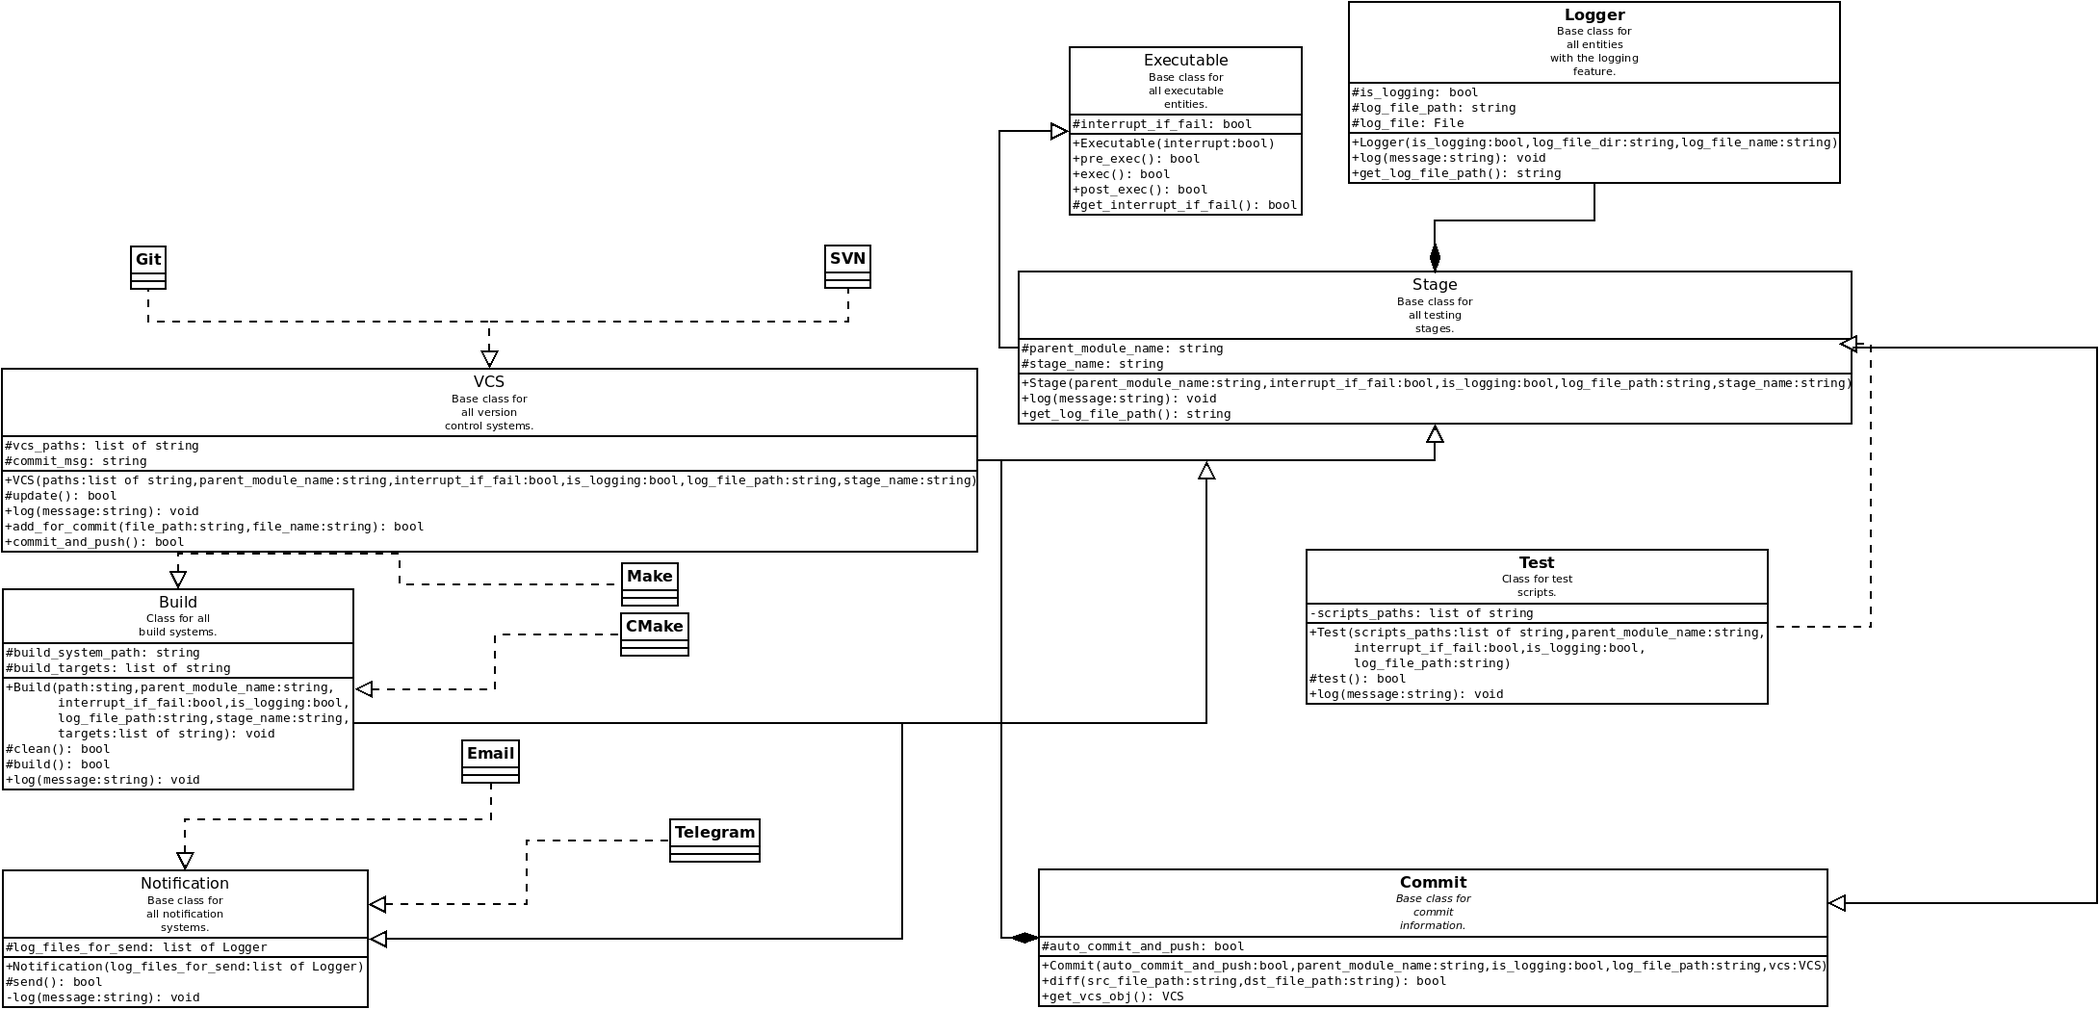
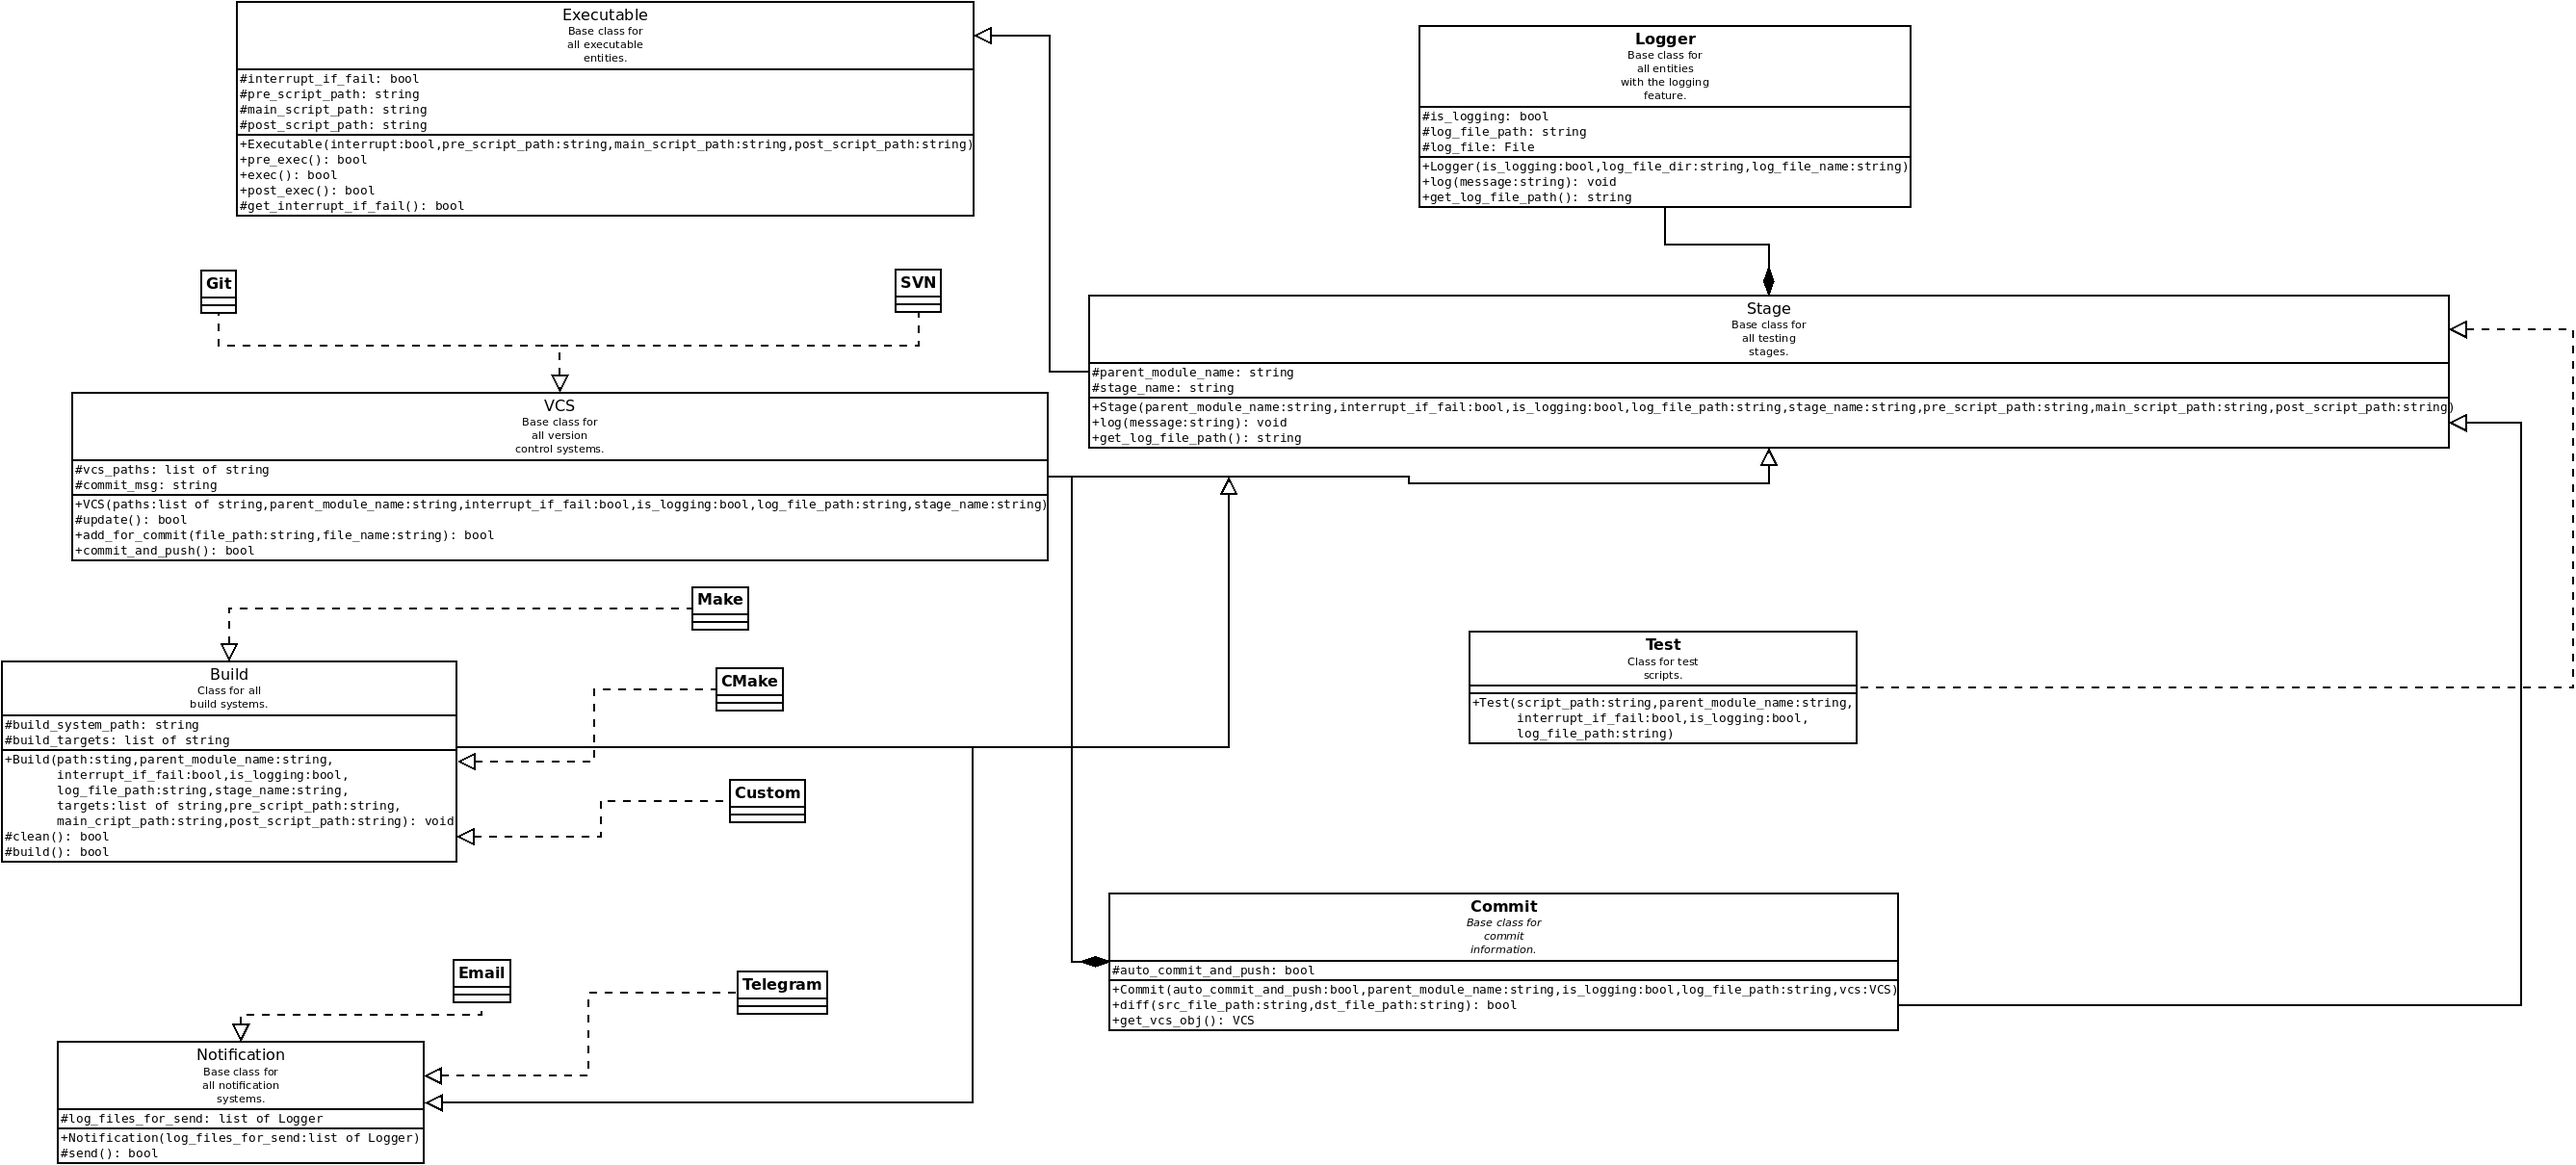
added Custom type for Build Stage.

diff --git a/src/simple_test_tool.py b/src/simple_test_tool.py
@@ -1,4 +1,5 @@
 from build.cmake import Cmake
+from build.custom import Custom
 from build.make import Make
 from module import Module
 from notification.mail import Email
@@ -69,10 +70,29 @@ def create_build_stage(stage_root, module_name):
     for target in stage_root.findall('Target'):
         targets_list.append(target.get('Name'))
 
+    pre_script_path = ""
+    main_script_path = ""
+    post_script_path = ""
+
+    pre_script = stage_root.find("PreScript")
+    if pre_script is not None:
+        pre_script_path = pre_script.get("Path")
+    main_script = stage_root.find("MainScript")
+    if main_script is not None:
+        main_script_path = main_script.get("Path")
+    post_script = stage_root.find("PostScript")
+    if post_script is not None:
+        post_script_path = post_script.get("Path")
+
     if stage_type == 'CMake':
-        return Cmake(stage_path, module_name, interrupt_on_fail, log_enable, log_path, 'CMake', targets_list)
+        return Cmake(stage_path, module_name, interrupt_on_fail, log_enable, log_path, 'CMake', targets_list,
+                     pre_script_path, main_script_path, post_script_path)
     elif stage_type == 'Make':
-        return Make(stage_path, module_name, interrupt_on_fail, log_enable, log_path, 'Make', targets_list)
+        return Make(stage_path, module_name, interrupt_on_fail, log_enable, log_path, 'Make', targets_list,
+                    pre_script_path, main_script_path, post_script_path)
+    elif stage_type == 'Custom':
+        return Custom(stage_path, module_name, interrupt_on_fail, log_enable, log_path, 'Custom', targets_list,
+                      pre_script_path, main_script_path, post_script_path)
     else:
         return None
 
@@ -98,9 +118,11 @@ def create_notification_stage(stage_root, loggers):
 
 
 def create_test_stage(stage_root, module_name):
-    paths = []
-    for path in stage_root.findall('Path'):
-        paths.append(path.get('Path'))
+    path = ""
+    path_tag = stage_root.find('MainScript')
+    if path_tag is not None:
+        path = path_tag.get('Path')
+
     log_enable = True if stage_root.get('LogEnable') == 'On' else False
     log_path = ''
 
@@ -109,7 +131,7 @@ def create_test_stage(stage_root, module_name):
 
     interrupt_on_fail = True if stage_root.get('InterruptOnFail') == 'On' else False
 
-    return Test(paths, module_name, interrupt_on_fail, log_enable, log_path)
+    return Test(path, module_name, interrupt_on_fail, log_enable, log_path)
 
 
 def read_outputs(outputs_root):

diff --git a/src/test.py b/src/test.py
@@ -8,12 +8,12 @@ class Test(Stage):
     Class that containing and operating tests.
     """
 
-    def __init__(self, script_paths, parent_module_name, interrupt_if_fail, is_logging, log_file_path):
+    def __init__(self, script_path, parent_module_name, interrupt_if_fail, is_logging, log_file_path):
         """
         Parameters
         ----------
-        script_paths : list
-            an absolute paths to tests
+        script_path : str
+            an absolute path to tests
         parent_module_name: str
             a parent module name
         interrupt_if_fail : bool
@@ -23,32 +23,25 @@ class Test(Stage):
         log_file_path : str
             an absolute path to directory for the log file
         """
-        Stage.__init__(self, parent_module_name, interrupt_if_fail, log_file_path, 'Test', is_logging)
-        self.__script_paths = script_paths.copy()
-        for path in self.__script_paths:
-            if not os.path.exists(path):
-                raise FileNotFoundError("Test: Path " + path + " doesn't exist!")
-
-    def _test(self):
-        for test_path in self.__script_paths:
-            test = subprocess.run(test_path, stdout=subprocess.PIPE, stderr=subprocess.PIPE)
-
-            self.log("Test " + test_path + "\nStdout:")
-            self.log(test.stdout.decode('utf-8'))
-            self.log("Stderr:")
-            self.log(test.stderr.decode('utf-8'))
-
-            self.log("Test evaluated with code :" + str(test.returncode))
-            if test.returncode != 0 and self._interrupt_if_fail:
-                return False
-
-        return True
+        Stage.__init__(self, parent_module_name, interrupt_if_fail, log_file_path, 'Test', is_logging, "",
+                       script_path, "")
 
     def pre_exec(self):
         return True
 
     def exec(self):
-        return self._test()
+        test = subprocess.run(self._main_script_path, stdout=subprocess.PIPE, stderr=subprocess.PIPE)
+
+        self.log("Test " + self._main_script_path + "\nStdout:")
+        self.log(test.stdout.decode('utf-8'))
+        self.log("Stderr:")
+        self.log(test.stderr.decode('utf-8'))
+
+        self.log("Test finished with code :" + str(test.returncode))
+        if test.returncode != 0:
+            return self._get_interrupt_if_fail()
+
+        return True
 
     def post_exec(self):
         return True

diff --git a/src/build/build.py b/src/build/build.py
@@ -1,4 +1,5 @@
 import os
+import subprocess
 from stage import Stage
 from abc import ABC, abstractmethod
 
@@ -8,7 +9,8 @@ class Build(Stage, ABC):
     Base class for all building systems.
     """
 
-    def __init__(self, path, parent_module_name, interrupt_if_fail, is_logging, log_file_path, stage_name, targets):
+    def __init__(self, path, parent_module_name, interrupt_if_fail, is_logging, log_file_path, stage_name, targets,
+                 pre_script_path, main_script_path, post_script_path):
         """
         Parameters
         ----------
@@ -26,8 +28,15 @@ class Build(Stage, ABC):
             stage name
         targets : list
             list of targets to build
+        pre_script_path : str
+            script for pre_exec()
+        main_script_path : str
+            script for exec()
+        post_script_path : str
+            script for post_exec()
         """
-        Stage.__init__(self, parent_module_name, interrupt_if_fail, log_file_path, stage_name, is_logging)
+        Stage.__init__(self, parent_module_name, interrupt_if_fail, log_file_path, stage_name, is_logging,
+                       pre_script_path, main_script_path, post_script_path)
         self._build_path = path
         if self._build_path[-1] != os.sep:
             self._build_path += os.sep
@@ -57,4 +66,17 @@ class Build(Stage, ABC):
         return self._build()
 
     def post_exec(self):
+        if self._post_script_path != "":
+            cwd = os.getcwd()
+            os.chdir(self._build_path)
+
+            build = subprocess.run(self._post_script_path, stdout=subprocess.PIPE, stderr=subprocess.PIPE)
+
+            os.chdir(cwd)
+            if build.returncode != 0:
+                self.log('execution ' + self._post_script_path + ' finished with ERROR!')
+                return self._get_interrupt_if_fail()
+            else:
+                self.log('execution ' + self._post_script_path + ' finished with SUCCESS!')
+
         return True

diff --git a/src/executable.py b/src/executable.py
@@ -1,3 +1,4 @@
+import os
 from abc import ABC, abstractmethod
 
 
@@ -18,14 +19,33 @@ class Executable(ABC):
         finalize the stage
     """
 
-    def __init__(self, interrupt_if_fail):
+    def __init__(self, interrupt_if_fail, pre_script_path, main_script_path, post_script_path):
         """
         Parameters
         ----------
         interrupt_if_fail : bool
             interrupt the execution of the all stages if an error has occurred
+        pre_script_path : str
+            script for pre_exec()
+        main_script_path : str
+            script for exec()
+        post_script_path : str
+            script for post_exec()
         """
         self._interrupt_if_fail = interrupt_if_fail
+
+        if pre_script_path != "":
+            if not os.path.exists(pre_script_path):
+                raise FileNotFoundError("Executable: Path " + pre_script_path + " doesn't exist!")
+        self._pre_script_path = pre_script_path
+        if main_script_path != "":
+            if not os.path.exists(main_script_path):
+                raise FileNotFoundError("Executable: Path " + main_script_path + " doesn't exist!")
+        self._main_script_path = main_script_path
+        if post_script_path != "":
+            if not os.path.exists(post_script_path):
+                raise FileNotFoundError("Executable: Path " + post_script_path + " doesn't exist!")
+        self._post_script_path = post_script_path
 
     @abstractmethod
     def exec(self):

diff --git a/src/build/custom.py b/src/build/custom.py
@@ -1,0 +1,38 @@
+from build.build import Build
+import subprocess
+import os
+
+
+class Custom(Build):
+
+    def _clean(self):
+        if self._pre_script_path != "":
+            cwd = os.getcwd()
+            os.chdir(self._build_path)
+
+            build = subprocess.run(self._pre_script_path, stdout=subprocess.PIPE, stderr=subprocess.PIPE)
+
+            os.chdir(cwd)
+            if build.returncode != 0:
+                self.log('execution ' + self._pre_script_path + ' finished with ERROR!')
+                return self._get_interrupt_if_fail()
+            else:
+                self.log('execution ' + self._pre_script_path + ' finished with SUCCESS!')
+
+        return True
+
+    def _build(self):
+        if self._main_script_path != "":
+            cwd = os.getcwd()
+            os.chdir(self._build_path)
+
+            build = subprocess.run(self._main_script_path, stdout=subprocess.PIPE, stderr=subprocess.PIPE)
+
+            os.chdir(cwd)
+            if build.returncode != 0:
+                self.log('execution ' + self._main_script_path + ' finished with ERROR!')
+                return self._get_interrupt_if_fail()
+            else:
+                self.log('execution ' + self._main_script_path + ' finished with SUCCESS!')
+
+        return True

diff --git a/src/stage.py b/src/stage.py
@@ -18,7 +18,8 @@ class Stage(executable.Executable, ABC):
         return associated logger
     """
 
-    def __init__(self, parent_module_name, interrupt_if_fail, log_file_path, stage_name, is_logging):
+    def __init__(self, parent_module_name, interrupt_if_fail, log_file_path, stage_name, is_logging,
+                 pre_script_path, main_script_path, post_script_path):
         """
         Parameters
         ----------
@@ -32,8 +33,14 @@ class Stage(executable.Executable, ABC):
             interrupt the execution of the all stages if an error has occurred
         parent_module_name: str
             a parent module name
+        pre_script_path : str
+            script for pre_exec()
+        main_script_path : str
+            script for exec()
+        post_script_path : str
+            script for post_exec()
         """
-        executable.Executable.__init__(self, interrupt_if_fail)
+        executable.Executable.__init__(self, interrupt_if_fail, pre_script_path, main_script_path, post_script_path)
         self._logger = logger.Logger(log_file_path, parent_module_name + '.' + stage_name, is_logging)
         self._parent_module_name = parent_module_name
         self._stage_name = stage_name

diff --git a/tests/test_simple_test_tool.py b/tests/test_simple_test_tool.py
@@ -80,7 +80,7 @@ def create_xml_input_file_tests_fail():
     tests.set('LogEnable', 'Off')
     tests.set('InterruptOnFail', 'On')
     # create Path
-    path = ET.SubElement(tests, 'Path')
+    path = ET.SubElement(tests, 'MainScript')
     path.set('Path', 'TEST/')
 
     return root
@@ -182,7 +182,7 @@ def create_xml_input_file_git_and_test():
     test.set('LogEnable', 'Off')
     test.set('InterruptOnFail', 'On')
 
-    test_path = ET.SubElement(test, 'Path')
+    test_path = ET.SubElement(test, 'MainScript')
     test_path.set('Path', root_dir + 'test.sh')
 
     return root

diff --git a/src/vcs/vcs.py b/src/vcs/vcs.py
@@ -35,7 +35,7 @@ class VCS(Stage, ABC):
         stage_name : str
             stage name
         """
-        Stage.__init__(self, parent_module_name, interrupt_if_fail, log_file_path, stage_name, is_logging)
+        Stage.__init__(self, parent_module_name, interrupt_if_fail, log_file_path, stage_name, is_logging, "", "", "")
         self._vcs_paths = paths.copy()
         for path in self._vcs_paths:
             if not os.path.exists(path):

diff --git a/src/vcs/commit.py b/src/vcs/commit.py
@@ -33,7 +33,7 @@ class Commit(Stage):
         vcs_obj : VCS
             VCS object
         """
-        Stage.__init__(self, parent_module_name, False, log_file_path, 'Commit', is_logging)
+        Stage.__init__(self, parent_module_name, False, log_file_path, 'Commit', is_logging, "", "", "")
         self._vcs_obj = vcs_obj
         self._auto_commit_and_push = auto_commit_and_push
 

diff --git a/src/notification/notification.py b/src/notification/notification.py
@@ -15,7 +15,7 @@ class Notification(Stage, ABC):
         loggers: list
             list of loggers to send
         """
-        Stage.__init__(self, "", False, "", "Notification", False)
+        Stage.__init__(self, "", False, "", "Notification", False, "", "", "")
         self._loggers = loggers
 
     @abstractmethod
